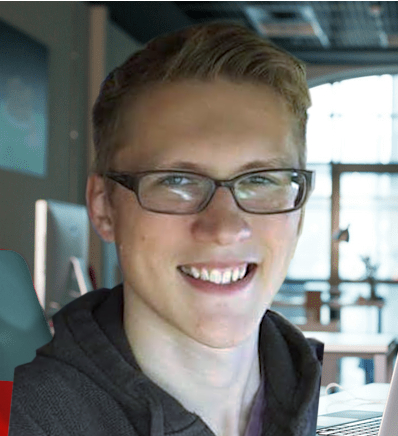
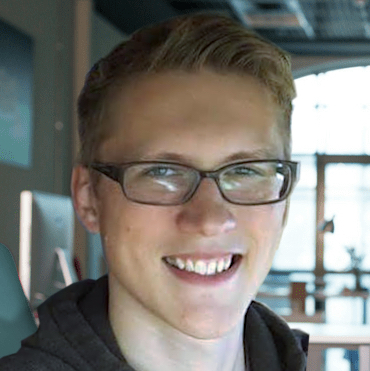
Fonts and some color and flex-box

diff --git a/index.html b/index.html
@@ -3,6 +3,7 @@
     <head>
         <title>Nat Sharpe</title>
         <meta charset="UTF-8">
+        <meta name="viewport" content="width=device-width, initial-scale=1.0">
         <link rel="stylesheet" href="styles/styles.css">
         <link rel="stylesheet" href="https://cdn.rawgit.com/konpa/devicon/df6431e323547add1b4cf45992913f15286456d3/devicon.min.css">
 
@@ -10,20 +11,16 @@
     <body>
         <div class="main">
             <div class="about-page">
-                <div class="photo-container">
-                    <img src="images/profile-photo.jpg" alt="profile-photo">
-                </div>
+                <img class="profile-photo" src="images/profile-photo.jpg" alt="profile-photo">
                 <h1 class="about-name">NAT SHARPE</h1>
                 <h2 class="about-title">Software Engineer</h2>
-                <hr>
                 <p class="about-bio">User-focused developer with a love for analytical research and design. Past experience includes videography, graphic design and two years as a full-time entrepreneur.</p>
-                <hr>
                 <div class="contact-container">
-                    <a class="contact-link" href="http://">GitHub</a>
-                    <a class="contact-link" href="http://">LinkedIn</a>
-                    <a class="contact-link" href="http://">Email</a>
-                    <a class="contact-link" href="http://">Call</a>
-                    <a class="contact-link" href="http://">Resume</a>
+                    <h3 class="contact-link github">GitHub</h3>
+                    <h3 class="contact-link linkedin">LinkedIn</h3>
+                    <h3 class="contact-link email">Email</h3>
+                    <h3 class="contact-link call">Phone</h3>
+                    <h3 class="contact-link resume">Resume</h3>
                 </div>
             </div>
             <div class="projects-page">
@@ -66,7 +63,7 @@
                 </div>
             </div>
             <div class="skills-page">
-                <h2 class="skills-title">Technologies</h2>
+                <h2 class="skills-title">Technology</h2>
                 <div class="skills-container">
                     <i class="devicon-javascript-plain"></i>
                     <i class="devicon-python-plain-wordmark"></i>
@@ -79,15 +76,6 @@
                     <i class="devicon-html5-plain-wordmark"></i>
                 </div>
             </div>
-            <footer>
-                <div class="footer-contact-container">
-                    <a class="contact-link" href="http://">GitHub</a>
-                    <a class="contact-link" href="http://">LinkedIn</a>
-                    <a class="contact-link" href="http://">Email</a>
-                    <a class="contact-link" href="http://">Call</a>
-                    <a class="contact-link" href="http://">Resume</a>
-                </div>
-            </footer>
         </div>
         <script src="scripts/main.js"></script>
     </body>

diff --git a/styles/styles.css b/styles/styles.css
@@ -1,0 +1,101 @@
+/* ---- Global ---- */
+* {
+    margin: 2rem 0;
+    padding: 0;
+    border: 0;
+    outline: 0;
+    font-size: 100%;
+}
+
+html, body{
+    font-family: Helvetica, sans-serif;
+    font-weight: 100;
+    width: 100%;
+    margin: 0;
+}
+
+body {
+    display: flex;
+    justify-content: center;
+}
+
+h1 {
+    font-size: 5em;
+    font-weight: 400;
+    color:  dodgerblue;
+}
+
+h2 {
+    margin-top: 0;
+    font-size: 2.5em;
+    font-weight: 400;
+}
+
+h3 {
+    font-size: 2em;
+    color: dodgerblue;
+}
+
+p {
+    opacity: 0.7;
+    font-size: 1.5em;
+    font-weight: 100;
+}
+
+i {
+    font-size: 5em;
+    color: dodgerblue;
+    margin: 1rem;
+}
+
+/* ---- Main Elements ---- */
+
+.main {
+    width: 90%;
+    display: flex;
+    flex-direction: column;
+    align-items: center;
+}
+
+.about-page {
+    display: flex;
+    flex-direction: column;
+    justify-content: center;
+    align-items: center;
+    text-align: center; 
+}
+
+.photo-container {
+}
+
+.profile-photo {
+    width: 18em;
+    border-width: 0.4rem;
+    border-color: dodgerblue;
+    border-radius: 100%;
+}
+
+.about-bio {
+    text-align: left;   
+}
+
+.contact-container {
+    display: flex;
+    flex-wrap: wrap;
+    width: 100%;
+    justify-content: space-evenly;
+}
+
+.skills-page {
+    width: 100%;
+    display: flex;
+    flex-direction: column;
+    align-items: center;
+}
+
+.skills-container {
+    width: 100%;
+    display: flex;
+    flex-wrap: wrap;
+    justify-content: space-around;
+}
